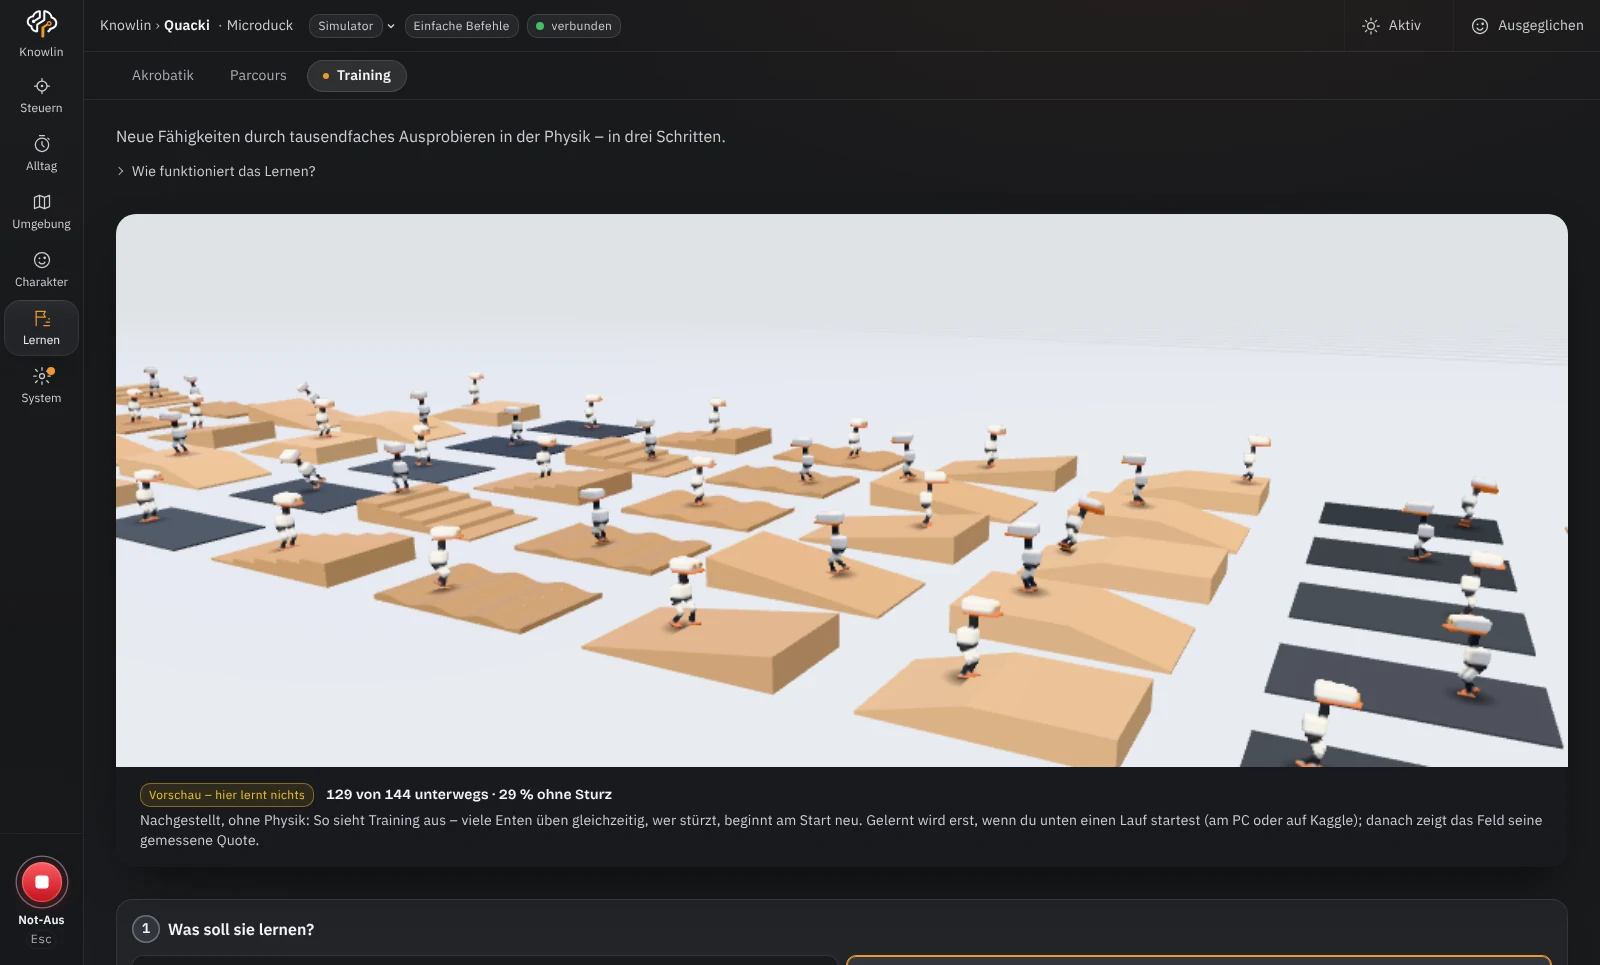
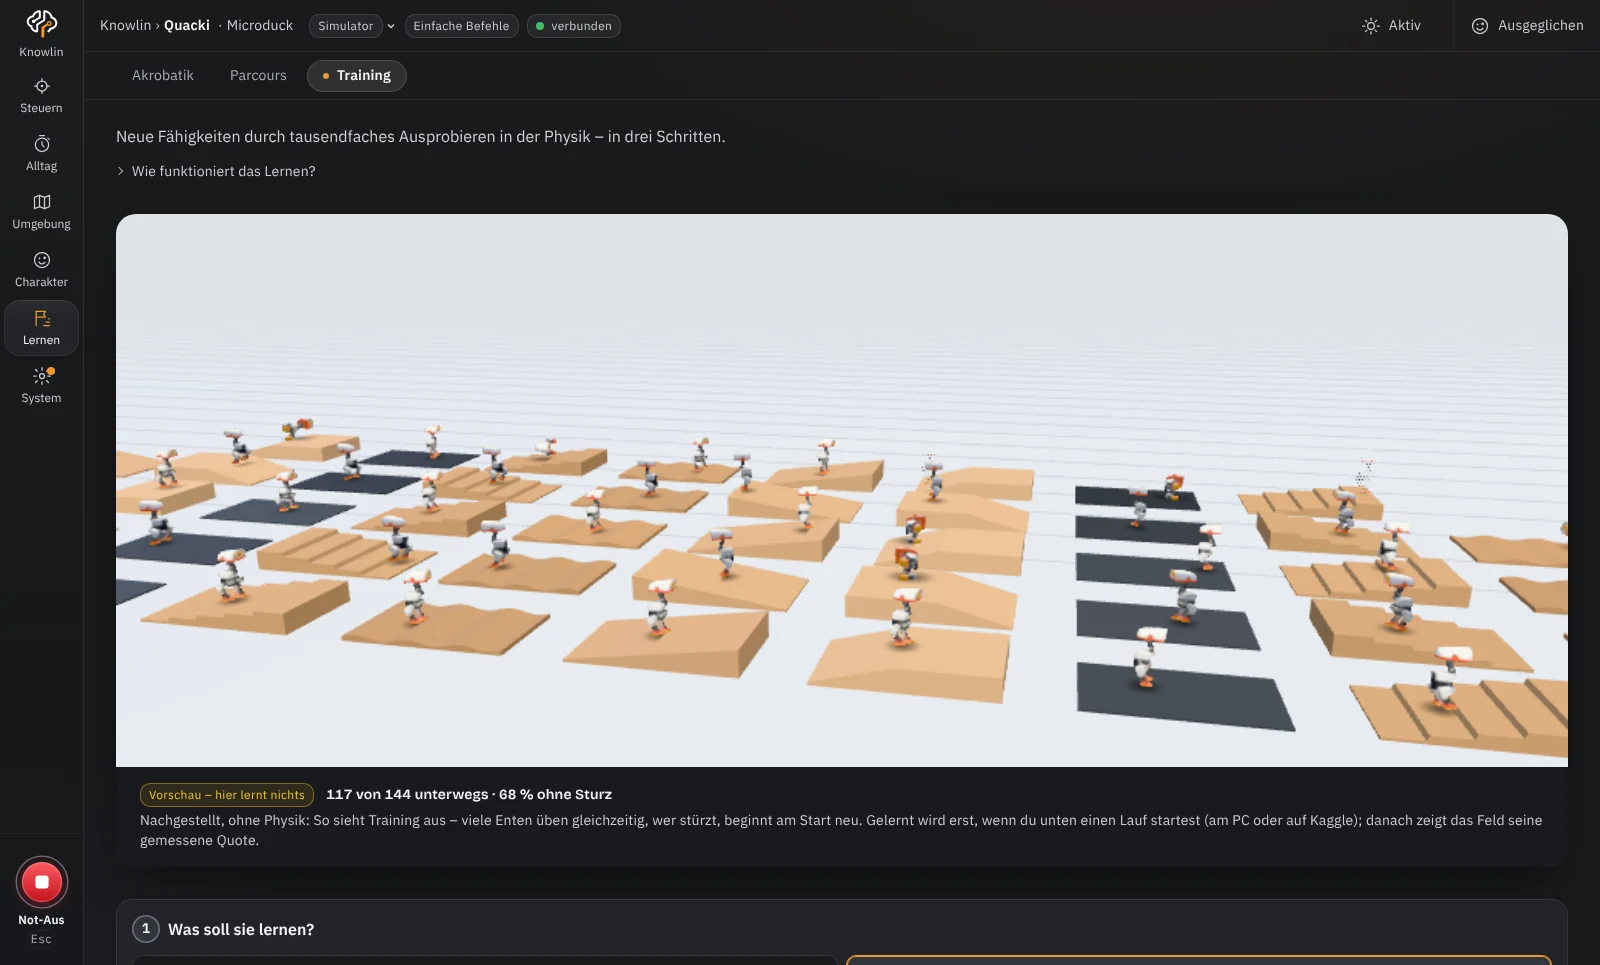
Website: Lernen-Bild mit Pollens Microduck statt der einfachen Ente

Changed region(s): [[0.0625, 0.3731, 1.0, 0.8083]]

diff --git a/website/index.html b/website/index.html
@@ -546,7 +546,7 @@ footer .rechtliches a { display: inline-block; padding-block: 6px; }
           <figcaption><span class="marke-klein"><span class="t" lang="de">Team</span><span class="t" lang="en">Team</span></span><h3><span class="t" lang="de">Ein ganzes Entenrudel.</span><span class="t" lang="en">A whole flock.</span></h3><p><span class="t" lang="de">Weitere Enten mit eigener Stimme: folgen dir, tanzen mit, räumen gemeinsam Socken zum Sofa.</span><span class="t" lang="en">More ducks with their own voices: they follow you, dance along and tidy socks to the sofa together.</span></p></figcaption>
         </figure>
         <figure class="kachel breit">
-          <div class="ausschnitt" style="--fx:52%;--fy:50%;--zoom:1.6">
+          <div class="ausschnitt" style="--fx:52%;--fy:58%;--zoom:1.6">
             <img data-bild="training" src="bilder/training-de-1600.webp" srcset="bilder/training-de-900.webp 900w, bilder/training-de-1600.webp 1600w" sizes="(max-width: 860px) 100vw, 720px" width="1600" height="965" loading="lazy" decoding="async"
             alt="Training: viele Enten üben gleichzeitig auf Rampen, Stufen und Wellen" data-alt-en="Training: many ducks practise at the same time on ramps, steps and waves">
           </div>

diff --git a/tools/website.py b/tools/website.py
@@ -157,7 +157,7 @@ def rechtsseite(name: str, kopf: str, beschreibung: str, fuss: str, adresse: str
 # und das offene Modell der Open Duck Mini (Apache-2.0) werden beim Bauen dazugelegt, nichts doppelt im Repo.
 # Pollens Modelldateien (Microduck, Reachy Mini; CC BY-NC-SA) kommen hier nie hin. Bilder, auf denen sie zu sehen sind,
 # dürfen seit 0.38.40 auf die Seite (9.11.) – mit Bildnachweis; welche das sind, steht in POLLEN_BILDER.
-POLLEN_BILDER = ("cockpit", "reachy", "charakter", "tanz", "team", "akrobatik")   # Training: eigene, einfache Enten
+POLLEN_BILDER = ("cockpit", "reachy", "charakter", "tanz", "team", "akrobatik", "training")
 STATIC = ROOT / "duckpilot" / "server" / "static"
 DEMO_DATEIEN = ("duckmodel.js", "formen3d.js", "licht3d.js", "raum3d.js", "vendor/three.module.min.js",
                 "vendor/BufferGeometryUtils.js", "vendor/OrbitControls.js", "vendor/THREE-LICENSE",

diff --git a/tools/website_bilder.py b/tools/website_bilder.py
@@ -255,6 +255,15 @@ def szene_training(page, base, sprache):
     A.oeffnen(page, base)
     zu(page, "cockpit")
     zu(page, "training", ms=3000)
+    # seit 0.38.40 („bei Lernen ist auf der Website noch ein Bild mit der Backup-Ente“): warten, bis das Feld die
+    # Originalfigur zeigt – sie wird erst nach der einfachen Ente in den Bildbogen gezeichnet
+    page.wait_for_function("() => /^original/.test(document.getElementById('tr-feld-canvas')?.dataset.figur || '')",
+                           timeout=420000)
+    # Bildbogen steht jetzt – Ansicht neu öffnen, damit die Kamera wieder nah beginnt (vorher war sie schon weit weg)
+    zu(page, "cockpit")
+    zu(page, "training", ms=3000)
+    page.wait_for_function("() => /^original/.test(document.getElementById('tr-feld-canvas')?.dataset.figur || '')",
+                           timeout=420000)
     page.wait_for_timeout(8000)
 
 

diff --git a/tools/export_public.py b/tools/export_public.py
@@ -41,6 +41,7 @@ PRIVAT = {
     "duckpilot/server/static/icon-maskable-512.png", "duckpilot/server/static/apple-touch-icon.png",
     "Gespraechsnotizen.md", "Microduck-Notizen.md",  # Arbeitsnotizen
     "Releaseplan.md", "ZWEIG.md",                    # private Planung und Testanleitung der Zweige
+    "Konzept-Geist.md",                              # Konzept im Entwurf (seit 11.11.2026), erst nach Abstimmung öffentlich
     ".env",                                          # Schlüssel, falls jemand ihn so hinterlegt hat
     "tools/privat_namen.txt",
     "CLAUDE.md",                                     # Arbeitsregeln für Claude in Chats – intern
